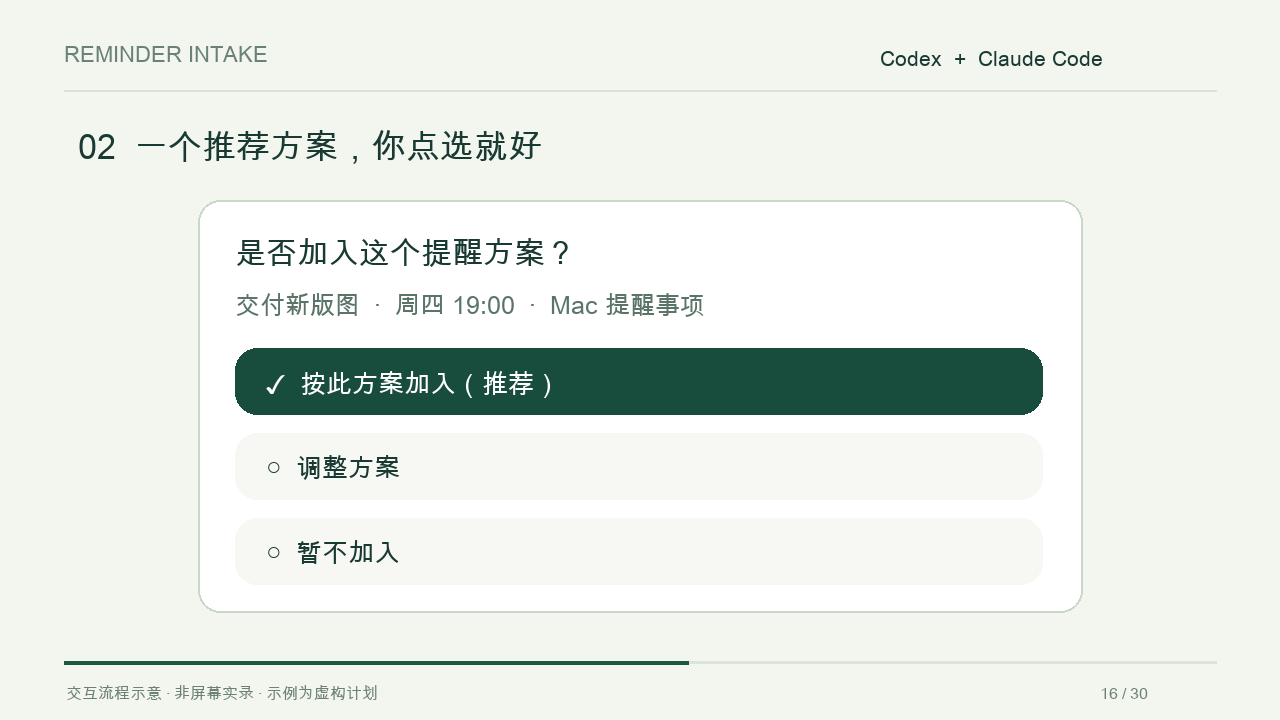
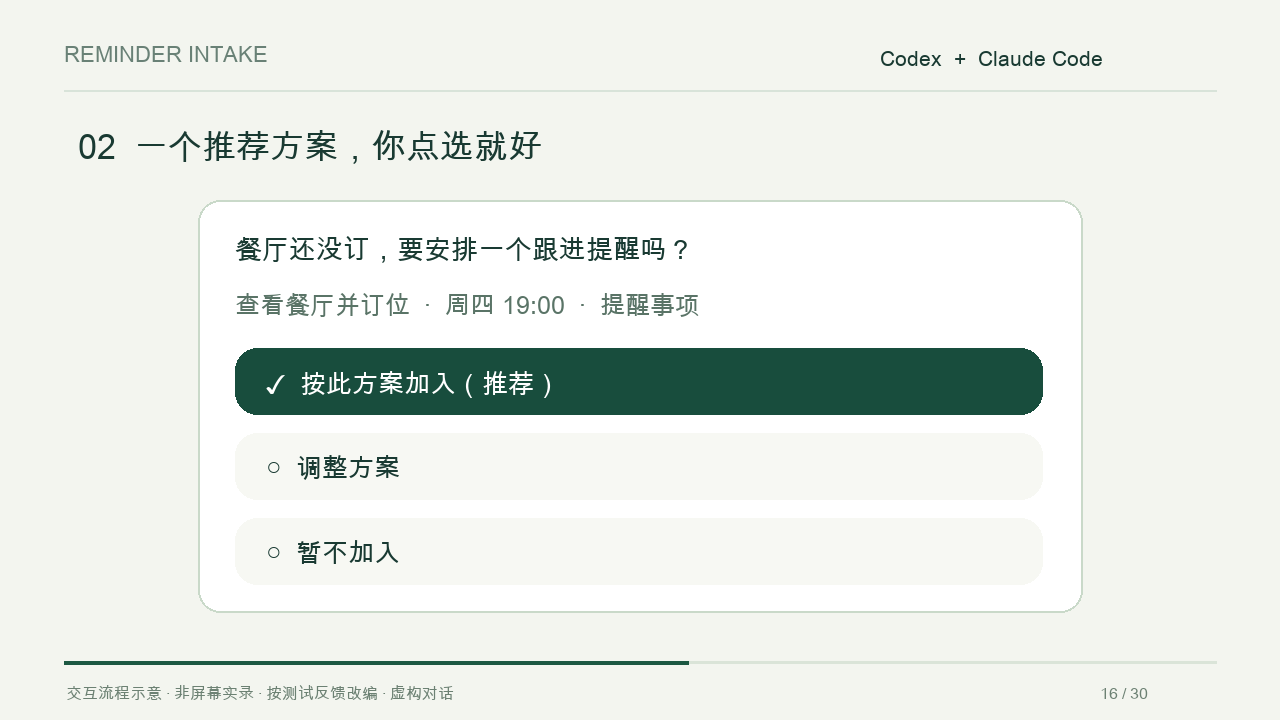
Show proactive three-turn reminder proposal in demo

Changed region(s): [[0.1875, 0.3972, 0.5625, 0.4583], [0.1875, 0.3056, 0.5312, 0.3667], [0.1875, 0.9472, 0.375, 0.9778]]

diff --git a/README.md b/README.md
@@ -8,15 +8,21 @@ An open-source instruction skill for **Codex and Claude Code**. It spots deadlin
 
 ![Illustrated reminder proposal](assets/demo.png)
 
-[Watch the 30-second illustrated demo](https://github.com/dryan3333/reminder-intake-skill/releases/download/v0.3.0/reminder-intake-demo.mp4). This is an animated workflow illustration, not a screen recording or proof of a connected calendar.
+[Watch the 30-second illustrated demo](https://github.com/dryan3333/reminder-intake-skill/releases/download/v0.3.0/reminder-intake-demo-v2.mp4). This is an animated workflow illustration, not a screen recording or proof of a connected calendar.
 
 ## How it feels
 
-> You: “I need to deliver the revised artwork by Friday. Remind me.”
+> Turn 1: “Any ideas for a date on Friday evening?”
 >
-> AI: “Deliver revised artwork · Thursday 7 pm · your preferred reminder app.”
+> Turn 2: “Something relaxed: dinner, then a walk.”
+>
+> Turn 3: “I haven’t booked a restaurant yet. I’ll look around.”
+>
+> AI proposes: “Check restaurants and book a table · Thursday 7 pm · your preferred reminder app.”
 >
 > Choose: **Add this reminder / Adjust / Not now**.
+
+No explicit “remind me” request is needed. The example demonstrates the intended three-turn behavior, not a recording of a successful live test.
 
 The host determines whether choices appear as buttons or text. Dates and timezones are checked before writing. An explicit request is handled immediately; an actionable plan discussed over three user turns gets one proposal, without repeated nudges.
 

diff --git a/README.zh-CN.md b/README.zh-CN.md
@@ -6,7 +6,7 @@
 
 ![提醒方案示意](assets/demo.png)
 
-[观看 30 秒动效演示](https://github.com/dryan3333/reminder-intake-skill/releases/download/v0.3.0/reminder-intake-demo.mp4)（交互示意，非屏幕实录）。
+[观看 30 秒动效演示](https://github.com/dryan3333/reminder-intake-skill/releases/download/v0.3.0/reminder-intake-demo-v2.mp4)（交互示意，非屏幕实录）。
 
 A reusable Codex and Claude Code skill that notices actionable dates and unfinished follow-ups, then asks whether to add them to Apple Calendar, Google Calendar, or macOS Reminders.
 
